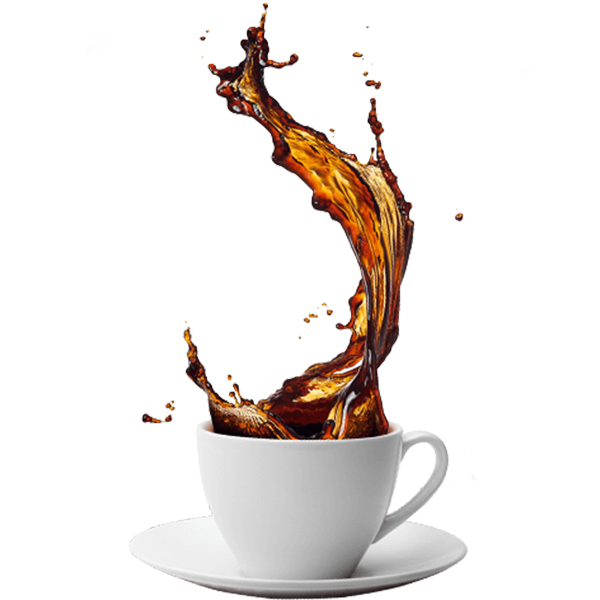
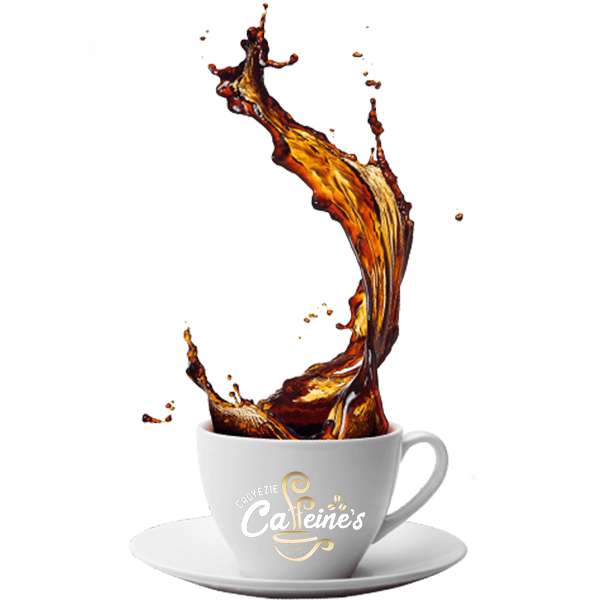
address and phone no

Changed region(s): [[0.39, 0.78, 0.6, 0.96]]

diff --git a/index.html b/index.html
@@ -3,7 +3,7 @@
 
 <head>
     <meta charset="utf-8">
-    <title>Croyezie Caffeine</title>
+    <title>Croyezie Caffeine's's</title>
     <meta content="width=device-width, initial-scale=1.0" name="viewport">
     <meta content="Free Website Template" name="keywords">
     <meta content="Free Website Template" name="description">
@@ -31,7 +31,7 @@
     <div class="container-fluid p-0 nav-bar navigation">
         <nav class="navbar navbar-expand-lg bg-none navbar-dark py-3">
             <a href="index.html" class="navbar-brand px-lg-4 m-0">
-                <h1 class="m-0 display-5 text-uppercase text-white">Croyezie Caffeine</h1>
+                <h1 class="m-0 display-5 text-uppercase text-white">Croyezie Caffeine's</h1>
             </a>
             <button type="button" class="navbar-toggler" data-toggle="collapse" data-target="#navbarCollapse">
                 <span class="navbar-toggler-icon"></span>
@@ -99,8 +99,8 @@
             <div class="row">
                 <div class="col-lg-4 py-0 py-lg-5">
                     <h1 class="mb-3">Our Story</h1>
-                    <h5 class="mb-3">Croyezie Caffeine</h5>
-                    <p>Croyezie Caffeine offers a unique coffee house environment unlike any other in Macon. We are not only a place to drop in and get your morning cup of coffee (although you are more than welcome to do that), we are a place where you can sit down and enjoy that tailor-made cup of coffee. We look forward to serving you at Croyezie Caffeine!</p>
+                    <h5 class="mb-3">Croyezie Caffeine's</h5>
+                    <p>Croyezie Caffeine's offers a unique coffee house environment unlike any other in Macon. We are not only a place to drop in and get your morning cup of coffee (although you are more than welcome to do that), we are a place where you can sit down and enjoy that tailor-made cup of coffee. We look forward to serving you at Croyezie Caffeine's!</p>
                     <a href="" class="btn btn-secondary font-weight-bold py-2 px-4 mt-2">Learn More</a>
                 </div>
                 <div class="col-lg-4 py-5 py-lg-0" style="min-height: 500px;">
@@ -406,9 +406,9 @@
         <div class="row mx-0 pt-5 px-sm-3 px-lg-5 mt-4">
             <div class="col-lg-3 col-md-6 mb-5">
                 <h4 class="text-white text-uppercase mb-4" style="letter-spacing: 3px;">Get In Touch</h4>
-                <p><i class="fa fa-map-marker-alt mr-2"></i>Karur</p>
-                <p><i class="fa fa-phone-alt mr-2"></i>+91 95978 72882</p>
-                <p class="m-0"><i class="fa fa-envelope mr-2"></i>croyeziecaffeine@info.com</p>
+                <p><i class="fa fa-map-marker-alt mr-2"></i>2C, 80 feet Road, Door no # 26, August Avenue., Karur 639002.</p>
+                <p class="d-flex align-items-center"><i class="fa fa-phone-alt mr-2"></i>+91 95978 72882 <br /> +91 87785 55567</p>
+                <p class="m-0"><i class="fa fa-envelope mr-2"></i>cafe@croyeziecaffienes.com</p>
             </div>
             <div class="col-lg-3 col-md-6 mb-5">
                 <h4 class="text-white text-uppercase mb-4" style="letter-spacing: 3px;">Follow Us</h4>

diff --git a/about.html b/about.html
@@ -3,7 +3,7 @@
 
 <head>
     <meta charset="utf-8">
-    <title>Croyezie Caffeine</title>
+    <title>Croyezie Caffeine's</title>
     <meta content="width=device-width, initial-scale=1.0" name="viewport">
     <meta content="Free Website Template" name="keywords">
     <meta content="Free Website Template" name="description">
@@ -31,7 +31,7 @@
     <div class="container-fluid p-0 nav-bar">
         <nav class="navbar navbar-expand-lg bg-none navbar-dark py-3">
             <a href="index.html" class="navbar-brand px-lg-4 m-0">
-                <h1 class="m-0 display-4 text-uppercase text-white">Croyezie Caffeine</h1>
+                <h1 class="m-0 display-4 text-uppercase text-white">Croyezie Caffeine's</h1>
             </a>
             <button type="button" class="navbar-toggler" data-toggle="collapse" data-target="#navbarCollapse">
                 <span class="navbar-toggler-icon"></span>
@@ -82,8 +82,8 @@
             <div class="row">
                 <div class="col-lg-4 py-0 py-lg-5">
                     <h1 class="mb-3">Our Story</h1>
-                    <h5 class="mb-3">Croyezie Caffeine</h5>
-                    <p>Croyezie Caffeine offers a unique coffee house environment unlike any other in Macon. We are not only a place to drop in and get your morning cup of coffee (although you are more than welcome to do that), we are a place where you can sit down and enjoy that tailor-made cup of coffee. We look forward to serving you at Croyezie Caffeine!</p>
+                    <h5 class="mb-3">Croyezie Caffeine's</h5>
+                    <p>Croyezie Caffeine's offers a unique coffee house environment unlike any other in Macon. We are not only a place to drop in and get your morning cup of coffee (although you are more than welcome to do that), we are a place where you can sit down and enjoy that tailor-made cup of coffee. We look forward to serving you at Croyezie Caffeine's!</p>
                     <a href="" class="btn btn-secondary font-weight-bold py-2 px-4 mt-2">Learn More</a>
                 </div>
                 <div class="col-lg-4 py-5 py-lg-0" style="min-height: 500px;">
@@ -169,9 +169,9 @@
         <div class="row mx-0 pt-5 px-sm-3 px-lg-5 mt-4">
             <div class="col-lg-3 col-md-6 mb-5">
                 <h4 class="text-white text-uppercase mb-4" style="letter-spacing: 3px;">Get In Touch</h4>
-                <p><i class="fa fa-map-marker-alt mr-2"></i>Karur</p>
-                <p><i class="fa fa-phone-alt mr-2"></i>+91 95978 72882</p>
-                <p class="m-0"><i class="fa fa-envelope mr-2"></i>croyeziecaffeine@info.com</p>
+                <p><i class="fa fa-map-marker-alt mr-2"></i>2C, 80 feet Road, Door no # 26, August Avenue., Karur 639002.</p>
+                <p class="d-flex align-items-center"><i class="fa fa-phone-alt mr-2"></i>+91 95978 72882 <br /> +91 87785 55567</p>
+                <p class="m-0"><i class="fa fa-envelope mr-2"></i>cafe@croyeziecaffienes.com</p>
             </div>
             <div class="col-lg-3 col-md-6 mb-5">
                 <h4 class="text-white text-uppercase mb-4" style="letter-spacing: 3px;">Follow Us</h4>

diff --git a/contact.html b/contact.html
@@ -3,7 +3,7 @@
 
 <head>
     <meta charset="utf-8">
-    <title>Croyezie Caffeine</title>
+    <title>Croyezie Caffeine's</title>
     <meta content="width=device-width, initial-scale=1.0" name="viewport">
     <meta content="Free Website Template" name="keywords">
     <meta content="Free Website Template" name="description">
@@ -31,7 +31,7 @@
     <div class="container-fluid p-0 nav-bar">
         <nav class="navbar navbar-expand-lg bg-none navbar-dark py-3">
             <a href="index.html" class="navbar-brand px-lg-4 m-0">
-                <h1 class="m-0 display-4 text-uppercase text-white">Croyezie Caffeine</h1>
+                <h1 class="m-0 display-4 text-uppercase text-white">Croyezie Caffeine's</h1>
             </a>
             <button type="button" class="navbar-toggler" data-toggle="collapse" data-target="#navbarCollapse">
                 <span class="navbar-toggler-icon"></span>
@@ -93,7 +93,7 @@
                 <div class="col-sm-4 text-center mb-3">
                     <i class="far fa-2x fa-envelope mb-3 text-primary"></i>
                     <h4 class="font-weight-bold">Email</h4>
-                    <p>croyeziecaffeine@info.com</p>
+                    <p>cafe@croyeziecaffienes.com</p>
                 </div>
             </div>
             <div class="row">
@@ -145,9 +145,9 @@
         <div class="row mx-0 pt-5 px-sm-3 px-lg-5 mt-4">
             <div class="col-lg-3 col-md-6 mb-5">
                 <h4 class="text-white text-uppercase mb-4" style="letter-spacing: 3px;">Get In Touch</h4>
-                <p><i class="fa fa-map-marker-alt mr-2"></i>Karur</p>
-                <p><i class="fa fa-phone-alt mr-2"></i>+91 95978 72882</p>
-                <p class="m-0"><i class="fa fa-envelope mr-2"></i>croyeziecaffeine@info.com</p>
+                <p><i class="fa fa-map-marker-alt mr-2"></i>2C, 80 feet Road, Door no # 26, August Avenue., Karur 639002.</p>
+                <p class="d-flex align-items-center"><i class="fa fa-phone-alt mr-2"></i>+91 95978 72882 <br /> +91 87785 55567</p>
+                <p class="m-0"><i class="fa fa-envelope mr-2"></i>cafe@croyeziecaffienes.com</p>
             </div>
             <div class="col-lg-3 col-md-6 mb-5">
                 <h4 class="text-white text-uppercase mb-4" style="letter-spacing: 3px;">Follow Us</h4>

diff --git a/menu.html b/menu.html
@@ -3,7 +3,7 @@
 
 <head>
     <meta charset="utf-8">
-    <title>Croyezie Caffeine</title>
+    <title>Croyezie Caffeine's</title>
     <meta content="width=device-width, initial-scale=1.0" name="viewport">
     <meta content="Free Website Template" name="keywords">
     <meta content="Free Website Template" name="description">
@@ -31,7 +31,7 @@
     <div class="container-fluid p-0 nav-bar">
         <nav class="navbar navbar-expand-lg bg-none navbar-dark py-3">
             <a href="index.html" class="navbar-brand px-lg-4 m-0">
-                <h1 class="m-0 display-4 text-uppercase text-white">Croyezie Caffeine</h1>
+                <h1 class="m-0 display-4 text-uppercase text-white">Croyezie Caffeine's</h1>
             </a>
             <button type="button" class="navbar-toggler" data-toggle="collapse" data-target="#navbarCollapse">
                 <span class="navbar-toggler-icon"></span>
@@ -237,9 +237,9 @@
         <div class="row mx-0 pt-5 px-sm-3 px-lg-5 mt-4">
             <div class="col-lg-3 col-md-6 mb-5">
                 <h4 class="text-white text-uppercase mb-4" style="letter-spacing: 3px;">Get In Touch</h4>
-                <p><i class="fa fa-map-marker-alt mr-2"></i>Karur</p>
-                <p><i class="fa fa-phone-alt mr-2"></i>+91 95978 72882</p>
-                <p class="m-0"><i class="fa fa-envelope mr-2"></i>croyeziecaffeine@info.com</p>
+                <p><i class="fa fa-map-marker-alt mr-2"></i>2C, 80 feet Road, Door no # 26, August Avenue., Karur 639002.</p>
+                <p class="d-flex align-items-center"><i class="fa fa-phone-alt mr-2"></i>+91 95978 72882 <br /> +91 87785 55567</p>
+                <p class="m-0"><i class="fa fa-envelope mr-2"></i>cafe@croyeziecaffienes.com</p>
             </div>
             <div class="col-lg-3 col-md-6 mb-5">
                 <h4 class="text-white text-uppercase mb-4" style="letter-spacing: 3px;">Follow Us</h4>
